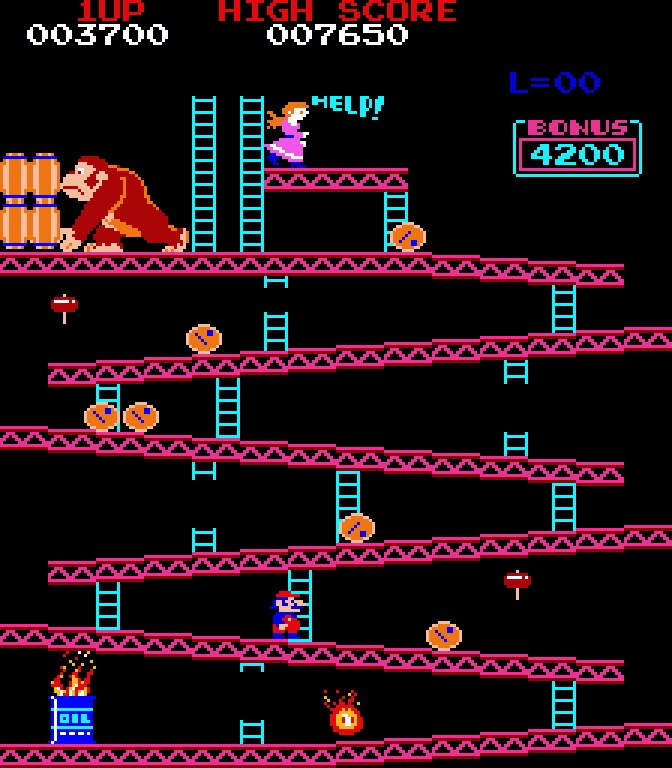
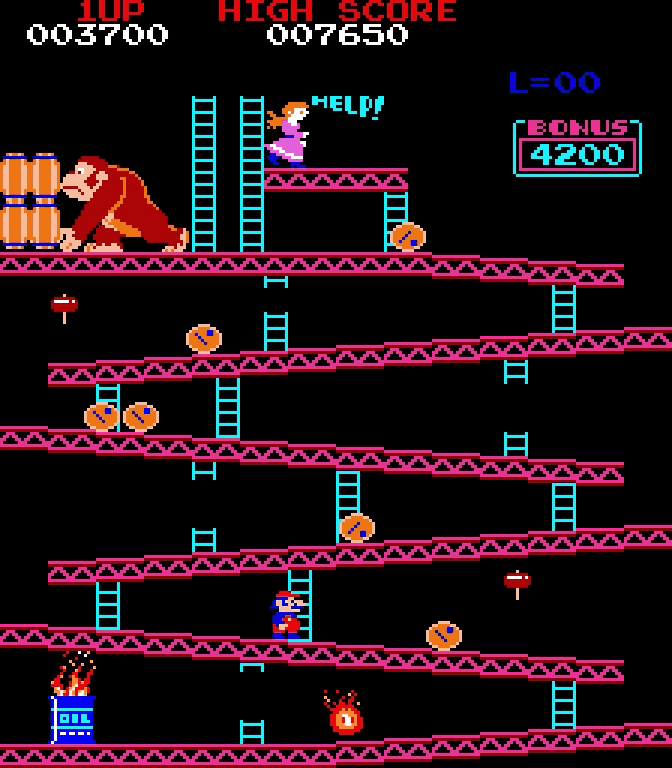
web: view-source link per card + optimize dkong screenshot
Each picker card gets a footer link to the game's idiomatic dir on GitHub
(sibling of a.play, opens in a new tab). dkong's screenshot re-encoded to a
256-colour palette -- smaller, visually identical.

diff --git a/web/index.html b/web/index.html
@@ -44,6 +44,11 @@
   /* A 64-char hash does not fit a 220px card, so an opened panel takes the whole
      grid row. Browsers without :has() just wrap the hash — nothing is lost. */
   .card:has(> details.romhelp[open]) { grid-column: 1 / -1; }
+  /* "view source" footer link -> the game's idiomatic dir on GitHub. Sibling of a.play (never nested
+     inside it -- an <a> inside an <a> is invalid). */
+  a.source { display: block; padding: 8px 18px; border-top: 1px solid #21212f; font-size: 12px;
+             color: #9fd0ff; text-decoration: none; }
+  a.source:hover { color: #cfe8ff; background: #171727; }
   .romhelp { border-top: 1px solid #21212f; font-size: 12px; }
   .romhelp summary { cursor: pointer; padding: 8px 18px; color: #9fd0ff; list-style: none; }
   .romhelp summary::-webkit-details-marker { display: none; }
@@ -250,6 +255,14 @@
       div("meta", `${m.manufacturer ?? ""}${m.year ? " · " + m.year : ""}`),
       tags,
     );
+    // "view source" -> the game's idiomatic (readable) layer on GitHub. Sibling of a.play, not nested.
+    const src = document.createElement("a");
+    src.className = "source";
+    src.href = `https://github.com/qarl/arcade-js/tree/main/games/${encodeURIComponent(id)}/idiomatic`;
+    src.target = "_blank";
+    src.rel = "noopener noreferrer";
+    src.textContent = "view source code ↗";
+    card.append(src);
     grid.appendChild(card);
 
     const entries = romEntries(m);
